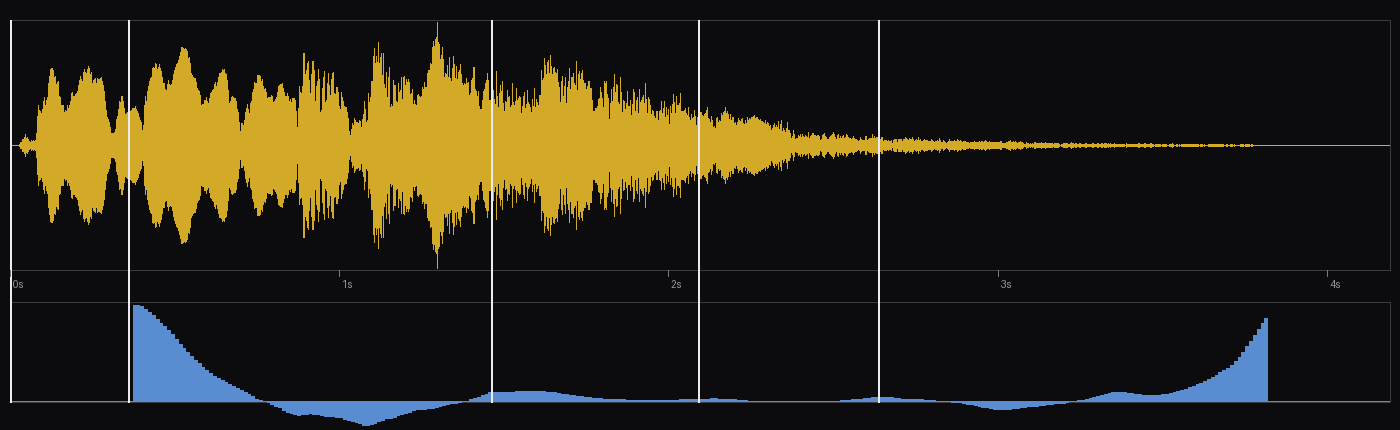
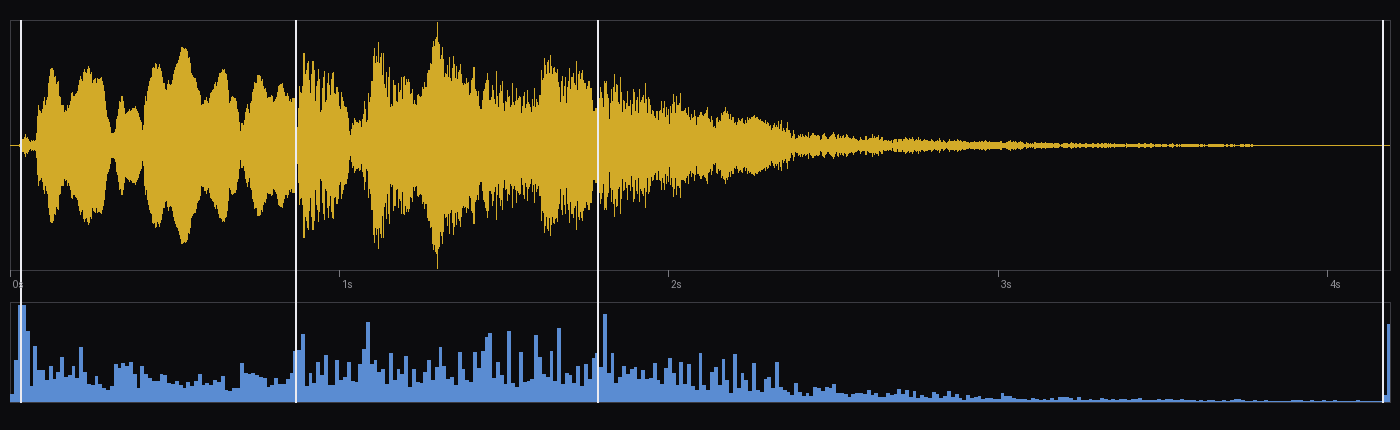
tools: cuts land on attacks; the region rule only filters them
The Foote peaks were used as positions, and on drums a novelty peak sits tens
of milliseconds from the transient that caused it - the cuts fell in the gaps
between hits. Inverted: the attack detector now supplies every candidate
position, and the region rule only decides whether to keep one.

  * candidate: a frame carrying an attack, refined onto the 1 ms attack step;
  * keep it when the slice is at least region_s long AND the sound since the
    last cut has moved on (cosine distance of chroma+timbre above 0.02);
  * region_s follows the material: 0.9 / onsets-per-second, 0.22..0.75 s.

Break: 10 slices, every boundary on a hit, 221-638 ms. Vocal 4, guitar 7,
short guitar 5, bass 3. The plot now shows the attack novelty that produced
the candidates instead of one chroma bin.

Changed region(s): [[0.0, 0.6953, 0.9214, 0.9977], [0.9829, 0.7558, 1.0, 0.9372]]

diff --git a/tools/hpss/spectral_chop.py b/tools/hpss/spectral_chop.py
@@ -49,12 +49,7 @@ def stft_magnitude(x):
     return mag
 
 def chroma(mag, rate, lo=55.0, hi=2000.0):
-    """12 pitch classes from the spectrum, L2-normalised.
-
-    A chord change moves energy between pitch classes even when the loudness
-    and the timbre stay put, which is exactly the evidence a region boundary
-    needs on tonal material.
-    """
+    """12 pitch classes, L2-normalised: what the harmony is doing."""
     freqs = np.linspace(0, rate / 2, mag.shape[1])
     sel = (freqs >= lo) & (freqs <= hi)
     f = freqs[sel]
@@ -70,7 +65,7 @@ def chroma(mag, rate, lo=55.0, hi=2000.0):
 
 
 def timbre(mag, rate, bands=48, lo=60.0, hi=12000.0):
-    """48 log-spaced bands, L2-normalised - the sound's colour."""
+    """48 log bands, L2-normalised: what the sound is."""
     freqs = np.linspace(0, rate / 2, mag.shape[1])
     edges = np.geomspace(lo, min(hi, rate / 2), bands + 1)
     out = np.zeros((mag.shape[0], bands), dtype=np.float32)
@@ -82,62 +77,43 @@ def timbre(mag, rate, bands=48, lo=60.0, hi=12000.0):
     return out / (np.linalg.norm(out, axis=1, keepdims=True) + 1e-9)
 
 
-def foote_novelty(feat, half):
-    """Checkerboard kernel on the self-similarity of `feat`.
-
-    For every frame it compares "what the music sounds like just after" with
-    "just before", and subtracts the similarity inside each side. A drum hit
-    changes the colour, a new chord changes the pitch classes, and a sustained
-    note inside a region changes neither - so the same kernel gives one-pad-per-
-    hit on drums and phrase-level slices on tonal material.
-    """
-    n = len(feat)
-    half = max(1, min(half, max(1, n // 2 - 1)))
-    width = 2 * half + 1
-    sim = np.zeros((n, width), dtype=np.float32)
-    for d in range(-half, half + 1):
-        lo, hi = max(0, -d), n - max(0, d)
-        sim[lo:hi, d + half] = (feat[lo:hi] * feat[lo + d:hi + d]).sum(axis=1)
-    idx = np.arange(-half, half + 1)
-    before, after = idx < 0, idx > 0
-    nov = np.zeros(n, dtype=np.float32)
-    for i in range(half, n - half):
-        blk = sim[i - half:i + half + 1]
-        within = (blk[np.ix_(before, before)].mean() +
-                  blk[np.ix_(after, after)].mean()) / 2
-        across = (blk[np.ix_(before, after)].mean() +
-                  blk[np.ix_(after, before)].mean()) / 2
-        nov[i] = across - within
-    return nov
-
-
-def pick_regions(novelty, half, min_gap, rate, k=0.6):
-    """Peaks of the Foote novelty, at least `min_gap` apart."""
-    v = novelty.astype(np.float64)
-    win = max(1, half)
-    out = []
-    last = -10 ** 9
-    for f in range(1, len(v) - 1):
-        if not (v[f] > v[f - 1] and v[f] > v[f + 1]):
-            continue
-        lo, hi = max(0, f - win), min(len(v), f + win + 1)
-        local = v[lo:hi]
-        med = float(np.median(local))
-        sigma = 1.4826 * float(np.median(np.abs(local - med)))
-        if v[f] < med + k * max(sigma, 1e-6):
-            continue
-        if f - last < min_gap:
-            continue
-        out.append(f)
-        last = f
-    return out
+def attack_frames(mag, rate):
+    """Frames carrying an attack: per-band log flux, local median threshold."""
+    edges = sorted({0, max(1, min(mag.shape[1] - 1, int(250 * N / rate))),
+                    max(1, min(mag.shape[1] - 1, int(2000 * N / rate))),
+                    mag.shape[1]})
+    flux = np.zeros(mag.shape[0], dtype=np.float32)
+    for lo, hi in zip(edges[:-1], edges[1:]):
+        band = mag[:, lo:hi]
+        diff = np.diff(np.log1p(band), axis=0,
+                       prepend=np.zeros((1, band.shape[1]), np.float32))
+        f = np.maximum(diff, 0).sum(axis=1)
+        flux += f / (f.mean() + 1e-9)
+    half = max(1, int(0.5 * rate / HOP))
+    med = np.array([np.median(flux[max(0, i - half):i + half + 1])
+                    for i in range(len(flux))])
+    thr = 0.1 * float(flux.mean()) + 2.5 * med
+    prom = 0.8 * float(flux.mean())
+    gap = max(1, int(0.040 * rate / HOP))
+    out, last, valley = [], -10 ** 9, np.inf
+    for f in range(len(flux)):
+        v = flux[f]
+        left = flux[f - 1] if f else -1.0
+        right = flux[f + 1] if f + 1 < len(flux) else -1.0
+        if (v > left and v > right and v >= thr[f] and f - last >= gap
+                and (not out or v - valley >= prom)):
+            out.append(f)
+            last, valley = f, np.inf
+        else:
+            valley = min(valley, v)
+    return out, flux
 
 
-def place(x, rate, frame, fraction=0.15):
-    """Snap onto an attack when there is one, otherwise keep the frame."""
+def place(x, rate, frame, fraction=0.15, search_s=0.015):
+    """Put the boundary on the attack itself."""
     pos = frame * HOP
-    a = max(0, pos - int(0.012 * rate))
-    b = min(len(x), pos + int(0.012 * rate))
+    a = max(0, pos - int(search_s * rate))
+    b = min(len(x), pos + int(search_s * rate))
     hop = max(1, int(0.001 * rate))
     if b - a < 4 * hop:
         return pos
@@ -158,73 +134,53 @@ def place(x, rate, frame, fraction=0.15):
     return max(0, a + onset * hop)
 
 
-def onset_density(x, rate):
-    """Onsets per second - tells dense material from sustained material."""
-    mag = stft_magnitude(x)
-    diff = np.diff(np.log1p(mag), axis=0,
-                   prepend=np.zeros((1, mag.shape[1]), np.float32))
-    flux = np.maximum(diff, 0).sum(axis=1)
-    half = max(1, int(0.5 * rate / HOP))
-    med = np.array([np.median(flux[max(0, i - half):i + half + 1])
-                    for i in range(len(flux))])
-    thr = 0.1 * float(flux.mean()) + 2.5 * med
-    peaks, last = [], -10 ** 9
-    gap = max(1, int(0.040 * rate / HOP))
-    for f in range(1, len(flux) - 1):
-        if not (flux[f] > flux[f - 1] and flux[f] > flux[f + 1]):
-            continue
-        if flux[f] < thr[f] or f - last < gap:
-            continue
-        peaks.append(f)
-        last = f
-    return float(len(peaks)) / max(0.2, len(x) / rate)
-
-
 def onsets(x, rate, max_slices=16, region_s=0.0, fraction=0.15):
-    """Slices are regions: cut where the music changes identity.
+    """A boundary is an attack, kept only when the music has moved on.
 
-    `region_s` is the shortest region the detector can see - the one knob. It
-    is the checkerboard width, so the slice count follows from the material
-    instead of from a target.
+    The attack detector decides *where* a cut can go - always a real transient -
+    and the region rule decides *whether*: the slice must be at least
+    `region_s` long, and the sound after it must differ from the sound at the
+    last cut (chroma or timbre). That keeps every cut on a hit for drums while
+    a sustained phrase only yields a few slices, with no mode switch.
     """
     mag = stft_magnitude(x)
+    hits, flux = attack_frames(mag, rate)
     if region_s <= 0:
-        # dense material (drums) gets a shorter region, sustained material
-        # (a vocal phrase) a longer one: one rule, no mode switch
-        density = onset_density(x, rate)
+        density = len(hits) / max(0.2, len(x) / rate)
         region_s = float(np.clip(0.9 / max(density, 0.4), 0.22, 0.75))
-    feat = np.hstack([0.6 * chroma(mag, rate), 0.4 * timbre(mag, rate)])
-    half = max(2, int(region_s * rate / HOP) // 2)
-    novelty = foote_novelty(feat, half)
-    frames = pick_regions(novelty, half, half, rate)
-    frames = [f for f in frames if f + 2 < len(novelty)]
+    both = np.hstack([chroma(mag, rate), timbre(mag, rate)])
+    min_gap = int(region_s * rate / HOP)
+    win = max(2, int(0.2 * rate / HOP))
 
-    # a boundary must separate two audible regions: without this the fade-out
-    # of a vocal or a reverb tail gets sliced into silence
-    win = max(1, int(0.050 * rate))
-    hop = win
-    nwin = max(1, len(x) // hop)
-    loud = np.array([float(np.sqrt(np.mean(x[i * hop:(i + 1) * hop] ** 2)))
-                     for i in range(nwin)], dtype=np.float32)
-    floor = 0.08 * float(loud.max())
-    span = max(1, int(0.15 * rate / hop))
+    def moved_on(prev, cur):
+        lo = max(0, prev - win)
+        if prev - lo < 2 or len(both[cur:cur + win]) < 2:
+            return True
+        a = both[lo:prev].mean(axis=0)
+        b = both[cur:cur + win].mean(axis=0)
+        na, nb = np.linalg.norm(a), np.linalg.norm(b)
+        if na < 1e-9 or nb < 1e-9:
+            return False
+        return float(1.0 - a @ b / (na * nb)) >= 0.02
 
-    def audible(frame):
-        """something must actually start here - not a fade, not a reverb tail"""
-        i = min(nwin - 1, max(0, frame * HOP // hop))
-        return float(loud[i:i + span].max()) >= floor
-
-    frames = [f for f in frames if audible(f)][:max_slices]
+    kept = []
+    for f in hits:
+        if kept and f - kept[-1] < min_gap:
+            continue
+        if kept and not moved_on(kept[-1], f):
+            continue
+        kept.append(f)
+        if len(kept) >= max_slices:
+            break
     positions = []
-    for f in frames:
+    for f in kept:
         p = place(x, rate, f, fraction)
         if positions and p - positions[-1] < int(0.040 * rate):
             continue
         positions.append(p)
     if positions and positions[0] > int(0.050 * rate) and len(positions) < max_slices:
         positions = [0] + positions
-    return positions, frames, novelty
-
+    return positions, kept, flux
 
 
 def slices_from(positions, frames):
@@ -249,11 +205,14 @@ def main():
     data, rate, ch = read_wav(args.input)
     x = np.asarray(data, dtype=np.float32).reshape(-1, ch).mean(axis=1)
     frames = len(x)
-    density = 0.0 if args.region > 0 else None
     positions, detected, strength = onsets(
         x, rate, args.max, args.region, args.cut_fraction)
-    region_used = args.region if args.region > 0 else float(
-        np.clip(0.9 / max(onset_density(x, rate), 0.4), 0.22, 0.75))
+    if args.region > 0:
+        region_used = args.region
+    else:
+        hits, _ = attack_frames(stft_magnitude(x), rate)
+        density = len(hits) / max(0.2, len(x) / rate)
+        region_used = float(np.clip(0.9 / max(density, 0.4), 0.22, 0.75))
     sl = slices_from(positions, frames)
     lengths = [b - a for _, a, b in sl]
 
